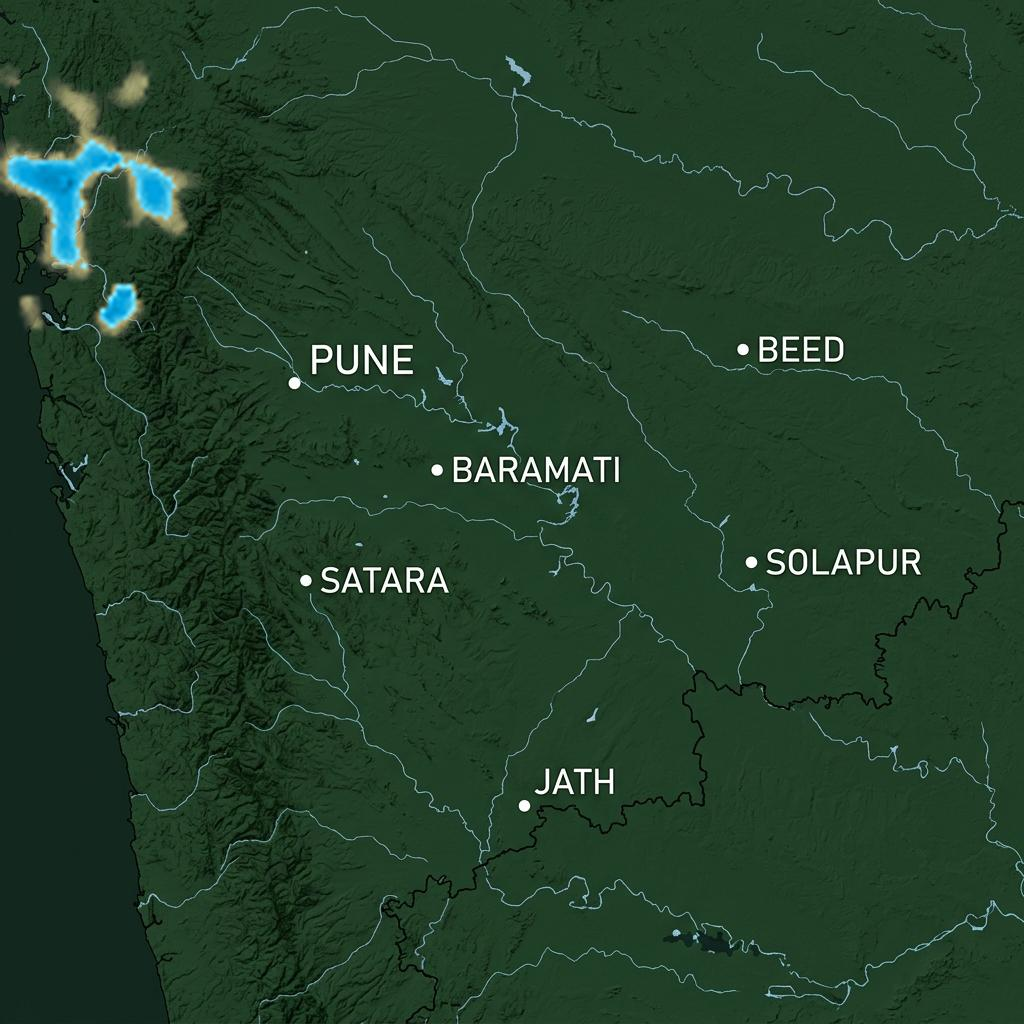
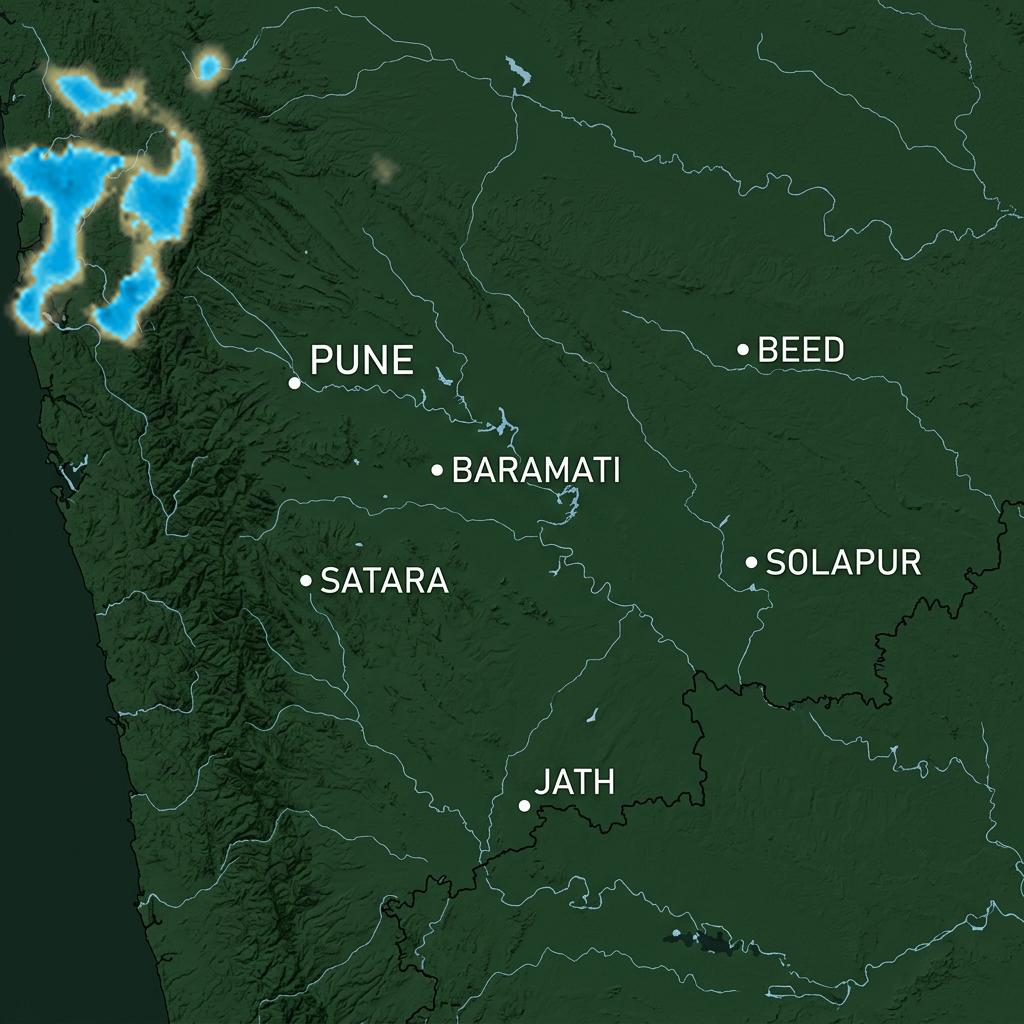
weather dataupdated

Changed region(s): [[0.0, 0.0312, 0.2188, 0.3438], [0.3438, 0.1562, 0.4062, 0.1875]]

diff --git a/ui/screens/dashboard_page.py b/ui/screens/dashboard_page.py
@@ -72,11 +72,7 @@ class DashboardPage(QWidget):
 
         layout.addWidget(middle_widget, 1)
 
-        # 3. LOWER ROW: Report Last Analysis Summary Strip
-        report_strip = self._build_last_report_strip()
-        layout.addWidget(report_strip)
-
-        # 4. BOTTOM ROW: 4 Action Buttons
+        # 3. BOTTOM ROW: 4 Action Buttons
         action_bar = self._build_action_bar()
         layout.addWidget(action_bar)
 
@@ -470,96 +466,7 @@ class DashboardPage(QWidget):
         layout.addLayout(f_row)
         return card
 
-    def _build_last_report_strip(self) -> QWidget:
-        strip = QFrame(self)
-        strip.setObjectName("ReportStrip")
-        strip.setFixedHeight(48)
-        strip.setStyleSheet("""
-            QFrame#ReportStrip {
-                background-color: #111428;
-                border: 1px solid #1e2442;
-                border-radius: 8px;
-            }
-            QFrame#ReportStrip QLabel {
-                border: none;
-                background: transparent;
-            }
-        """)
 
-        layout = QHBoxLayout(strip)
-        layout.setContentsMargins(10, 0, 10, 0)
-        layout.setSpacing(12)
-
-        # Icon & Title
-        title_box = QHBoxLayout()
-        ic = QLabel(strip)
-        ic.setPixmap(qta.icon("fa5s.clipboard-list", color="#a855f7").pixmap(16, 16))
-
-        t_lbl = QLabel("REPORT – LAST ANALYSIS SUMMARY", strip)
-        t_lbl.setStyleSheet(f"color: {COLOR_TEXT_PRIMARY}; font-size: 11px; font-weight: 800; letter-spacing: 0.5px; border: none; background: transparent;")
-
-        title_box.addWidget(ic)
-        title_box.addWidget(t_lbl)
-        layout.addLayout(title_box)
-
-        # Report Fields
-        fields = [
-            ("Date & Time", "24 May 2025\n10:28 AM", "fa5s.calendar-alt"),
-            ("Sample ID", "KVK-BMT-250524", "fa5s.vial"),
-            ("Soil Type", "Medium Black", "fa5s.mountain"),
-            ("Recommendation", "Sugarcane", "fa5s.seedling"),
-            ("Status", "Completed", "fa5s.check-circle"),
-        ]
-
-        for fname, fval, ficon in fields:
-            box = QWidget(strip)
-            b_l = QHBoxLayout(box)
-            b_l.setContentsMargins(0, 0, 0, 0)
-            b_l.setSpacing(4)
-
-            b_ic = QLabel(box)
-            b_ic.setPixmap(qta.icon(ficon, color=COLOR_PRIMARY_ACCENT if fname == "Status" else "#94a3b8").pixmap(12, 12))
-
-            v_b = QVBoxLayout()
-            v_b.setSpacing(0)
-
-            fl = QLabel(fname, box)
-            fl.setStyleSheet(f"color: {COLOR_TEXT_MUTED}; font-size: 8px; border: none; background: transparent;")
-            fv = QLabel(fval, box)
-            fv.setStyleSheet(f"color: {COLOR_PRIMARY_ACCENT if fname in ['Recommendation', 'Status'] else COLOR_TEXT_PRIMARY}; font-size: 9px; font-weight: 700; border: none; background: transparent;")
-
-            v_b.addWidget(fl)
-            v_b.addWidget(fv)
-
-            b_l.addWidget(b_ic)
-            b_l.addLayout(v_b)
-
-            layout.addWidget(box)
-
-        # Right Button
-        btn_view = QPushButton("📄 View Full Report", strip)
-        btn_view.setFixedHeight(28)
-        btn_view.setCursor(Qt.PointingHandCursor)
-        btn_view.setStyleSheet("""
-            QPushButton {
-                background-color: #3b2d6b;
-                color: #ffffff;
-                border: 1px solid #5b42a5;
-                border-radius: 6px;
-                font-size: 10px;
-                font-weight: 700;
-                padding: 0 10px;
-            }
-            QPushButton:hover {
-                background-color: #4c3a85;
-            }
-        """)
-        btn_view.clicked.connect(lambda: self.navigate_to_page.emit(5))
-
-        layout.addStretch(1)
-        layout.addWidget(btn_view)
-
-        return strip
 
     def _build_action_bar(self) -> QWidget:
         bar = QWidget(self)

diff --git a/ui/top_bar.py b/ui/top_bar.py
@@ -9,6 +9,7 @@ from PyQt5.QtWidgets import (
     QFrame,
     QHBoxLayout,
     QLabel,
+    QPushButton,
     QVBoxLayout,
     QWidget,
 )
@@ -27,6 +28,7 @@ class TopBarWidget(QFrame):
     Top Bar Widget matching reference mockup. Height: 42px.
     """
     location_toggle_changed = pyqtSignal(bool)
+    sidebar_toggle_requested = pyqtSignal()
 
     def __init__(self, parent=None):
         super().__init__(parent)
@@ -53,11 +55,34 @@ class TopBarWidget(QFrame):
         layout.setContentsMargins(12, 2, 12, 2)
         layout.setSpacing(12)
 
-        # 1. LEFT: Logo + Signal Icon + Date & Time Stack
+        # 1. LEFT: Hamburger Toggle (3 Dashes) + Logo + Signal Icon + Date & Time Stack
         left_widget = QWidget(self)
         left_layout = QHBoxLayout(left_widget)
         left_layout.setContentsMargins(0, 0, 0, 0)
         left_layout.setSpacing(8)
+
+        # Traditional 3-Dashes Hamburger Button
+        self.toggle_btn = QPushButton(left_widget)
+        self.toggle_btn.setFixedSize(30, 30)
+        self.toggle_btn.setCursor(Qt.PointingHandCursor)
+        self.toggle_btn.setToolTip("Toggle Sidebar Navigation")
+        self.toggle_btn.setIcon(qta.icon("fa5s.bars", color=COLOR_PRIMARY_ACCENT))
+        self.toggle_btn.setIconSize(QSize(16, 16))
+        self.toggle_btn.setStyleSheet("""
+            QPushButton {
+                background-color: #0d1424;
+                border: 1px solid #1e293b;
+                border-radius: 6px;
+            }
+            QPushButton:hover {
+                background-color: #131b2e;
+                border: 1px solid #22c55e;
+            }
+            QPushButton:pressed {
+                background-color: #14532d;
+            }
+        """)
+        self.toggle_btn.clicked.connect(self.sidebar_toggle_requested.emit)
 
         logo_ic = QLabel(left_widget)
         pix = qta.icon("fa5s.seedling", color=COLOR_PRIMARY_ACCENT).pixmap(QSize(20, 20))
@@ -77,6 +102,7 @@ class TopBarWidget(QFrame):
         dt_box.addWidget(self.time_label)
         dt_box.addWidget(self.date_label)
 
+        left_layout.addWidget(self.toggle_btn)
         left_layout.addWidget(logo_ic)
         left_layout.addWidget(signal_ic)
         left_layout.addLayout(dt_box)

diff --git a/ui/main_window.py b/ui/main_window.py
@@ -112,8 +112,9 @@ class MainWindow(QMainWindow):
         self.about_page = AboutPage(self)
         self.content_stack.addWidget(self.about_page)
 
-        # Connect Sidebar Selection Signal
+        # Connect Signals
         self.sidebar.item_selected.connect(self._on_sidebar_item_selected)
+        self.top_bar.sidebar_toggle_requested.connect(self._toggle_sidebar)
 
         # --- Initial Startup Mode: Show Splash Screen & Hide TopBar/Sidebar ---
         self.top_bar.hide()
@@ -122,6 +123,10 @@ class MainWindow(QMainWindow):
 
         # Trigger 3-second splash animation start after window opens
         QTimer.singleShot(100, self.splash_screen.start_splash_animation)
+
+    def _toggle_sidebar(self):
+        """Toggle sidebar panel visibility on 3-dash hamburger button click."""
+        self.sidebar.setVisible(not self.sidebar.isVisible())
 
     def _on_splash_finished(self):
         """Called automatically after 3-second splash screen animation finishes."""
